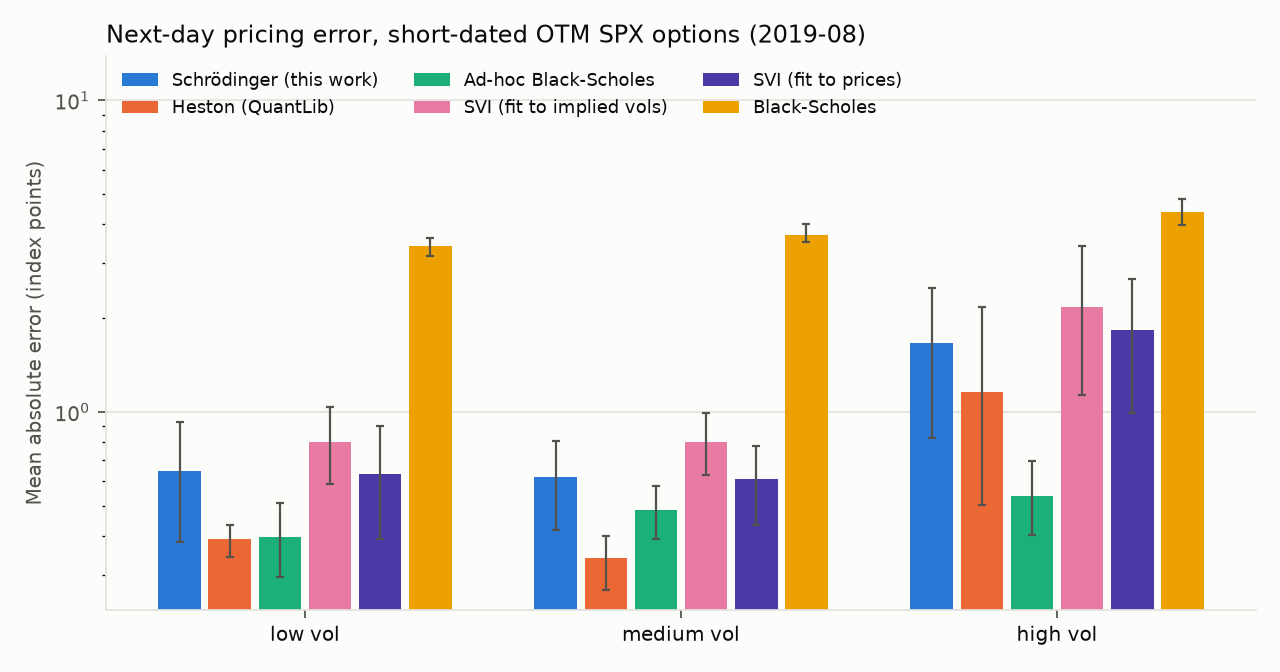
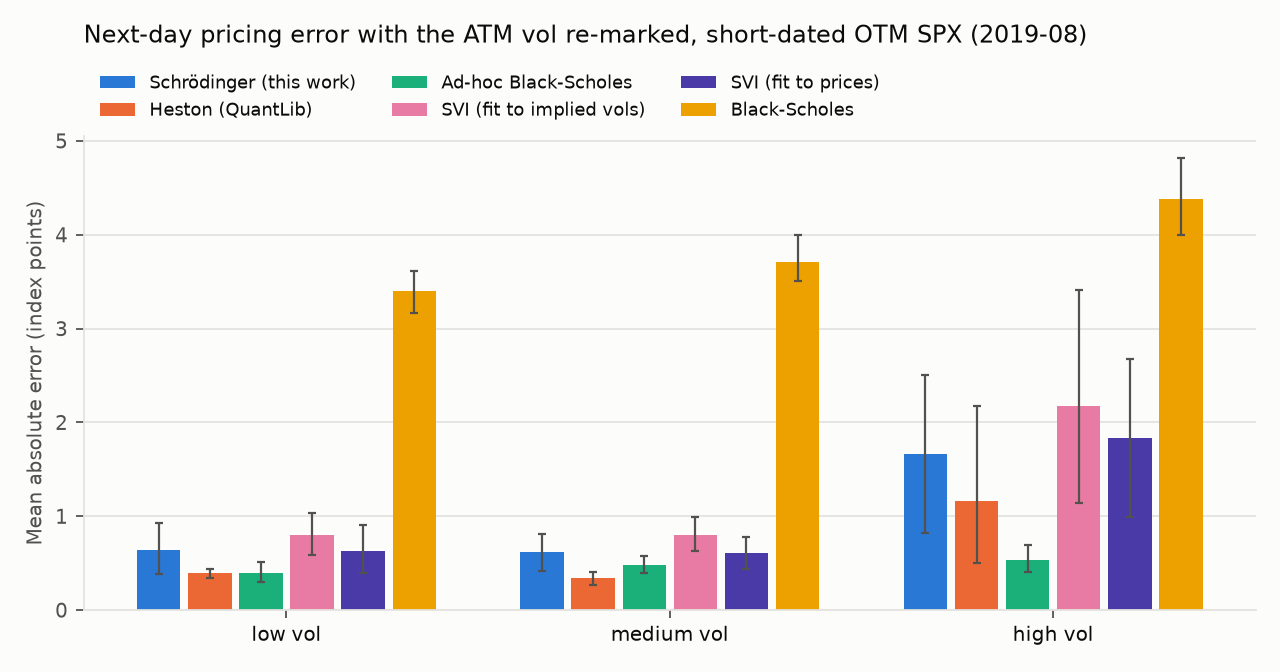
Stop presenting grid-box modes as bound states of the well
The potential-well figure drew the lowest eigenstates computed on the
pricing grid (+-8 sd). For short-dated SPX wells those are modes of the
Dirichlet box, not of the well. Their energies fall 4x each time the box
doubles and were identical on two different days. With rho near -1 the
call side of the well is almost flat. The level spacing is about 0.2 per
year and T (E1 - E0) is about 0.005 at 8 days, so the eigen-expansion
would need hundreds of states.

- The figure now shows each well with the density the solver actually
  propagates to expiry.
- qp_price --states computes the spectrum on a domain 8x wider, checks it
  against one 16x wider, flags levels that haven't converged and prints
  T (E1 - E0) with a verdict on whether the expansion is usable.
- docs/theory.md quantifies how discrete the spectrum is in practice and
  records that the solver's zero-clip never fires: without it, 400
  calibrated holdout wells gave no negative node at either grid size.
- The MAE-by-regime chart moves to a linear axis with the legend above.

diff --git a/python/qpricing/report.py b/python/qpricing/report.py
@@ -210,12 +210,12 @@ def fig_mae_by_regime(summary: pd.DataFrame, path: Path, period: str = "2022H2")
                yerr=err, error_kw={"ecolor": INK_2, "elinewidth": 1, "capsize": 2})
     ax.set_xticks(x, [f"{r} vol" for r in REGIMES], color=INK)
     ax.set_ylabel("Mean absolute error (index points)", color=INK_2, fontsize=9)
-    ax.set_yscale("log")
-    ax.set_title("Next-day pricing error, short-dated OTM SPX options "
+    ax.set_title("Next-day pricing error with the ATM vol re-marked, short-dated OTM SPX "
                  + ("(holdout Sep-Dec 2022)" if period == "2022H2" else f"({period})"),
+                 pad=42,
                  color=INK, fontsize=11, loc="left")
-    ax.legend(frameon=False, fontsize=8, labelcolor=INK, ncols=3, loc="upper left")
-    ax.set_ylim(top=ax.get_ylim()[1] * 2.5)
+    ax.legend(frameon=False, fontsize=8, labelcolor=INK, ncols=3, loc="lower left",
+              bbox_to_anchor=(0.0, 1.0))
     fig.tight_layout()
     fig.savefig(path, dpi=160)
     plt.close(fig)
@@ -242,47 +242,53 @@ def fig_regimes(regimes: pd.DataFrame, path: Path, period: str = "2022H2") -> No
 
 
 def fig_potential_wells(params: pd.DataFrame, regimes: pd.DataFrame, path: Path) -> None:
-    """The calibrated quantum potential and its lowest bound states, one slice per regime."""
+    """The calibrated quantum potential and the particle's density at expiry, one per regime.
+
+    No eigenstates: on a short horizon the call-side wall is so shallow that the spectrum is
+    packed far tighter than 1/T, and the lowest states on the pricing grid would be modes of the
+    grid's box rather than of the well (see docs/theory.md, section 4).
+    """
     finite = params["params"].map(lambda v: bool(np.all(np.isfinite(v))))
     p = params[(params.model == "schrodinger") & finite]
     p = p.join(regimes["regime"], on="calib_date")
-    fig, axes = plt.subplots(1, 3, figsize=(10, 3.6), facecolor=SURFACE, sharey=False)
-    for ax, regime in zip(axes, REGIMES, strict=True):
-        _style(ax)
-        ax.grid(False)
+    fig, axes = plt.subplots(2, 3, figsize=(10, 4.8), facecolor=SURFACE, sharex="col",
+                             gridspec_kw={"height_ratios": [3, 2]})
+    for col, regime in enumerate(REGIMES):
+        top_ax, bot_ax = axes[0, col], axes[1, col]
+        for ax in (top_ax, bot_ax):
+            _style(ax)
+            ax.grid(False)
         cand = p[(p.regime == regime) & p.days.between(8, 10)]
         # the slice whose ATM vol level is the median of its regime: a typical well
         lvl = cand["params"].map(lambda v: v[0])
         row = cand.iloc[int(np.argsort(lvl.to_numpy())[len(lvl) // 2])]
         T = row.days / 365
         sol = _qpcore.solve(Schrodinger.to_params(np.array(row["params"])), T,
-                            _qpcore.GridSpec(1200, 200), 4)
-        y, V = np.asarray(sol["y"]), np.asarray(sol["potential"])
-        E = np.asarray(sol["energies"])
-        # Plot where the particle actually lives: +-4 sd of the unit-diffusion Y-process.
-        centre = y[np.argmax(np.abs(np.asarray(sol["states"][0])))]
-        window = np.abs(y - centre) < 4.0 * np.sqrt(T)
-        top = 2.2 * E[2]
-        bottom = -0.6 * top
-        ax.plot(y[window], np.clip(V[window], bottom, None), color=INK, linewidth=1.6)
-        scale = 0.35 * (E[1] - E[0])
-        for n in range(3):
-            phi = np.asarray(sol["states"][n])
-            ax.axhline(E[n], color=GRID, linewidth=0.8)
-            ax.plot(y[window], E[n] + scale * phi[window] / np.abs(phi[window]).max(),
-                    color=COLORS["schrodinger"], linewidth=1.4, alpha=1.0 - 0.25 * n)
-            ax.text(y[window][-1], E[n], f" E{n}", color=INK_2, fontsize=8, va="center")
-        ax.set_ylim(bottom, top)
+                            _qpcore.GridSpec(1200, 200), 0)
+        y, V, q = (np.asarray(sol[k]) for k in ("y", "potential", "q"))
+        # where the particle actually lives at expiry
+        window = q > 1e-3 * q.max()
+        floor = np.median(V[window])
+        top = floor + 60.0
+        bottom = floor - 60.0
+        top_ax.plot(y[window], np.clip(V[window], bottom, top), color=INK, linewidth=1.6)
+        top_ax.set_ylim(bottom, top)
         i_min = int(np.argmin(np.where(window, V, np.inf)))
         if V[i_min] < bottom:
-            ax.annotate(f"attractive spike\n(depth {V[i_min]:.0f})", xy=(y[i_min], bottom),
-                        xytext=(y[i_min] + 0.15 * (y[window][-1] - y[window][0]), 0.55 * bottom),
-                        color=INK_2, fontsize=7,
-                        arrowprops={"arrowstyle": "->", "color": INK_2, "linewidth": 0.8})
-        ax.set_title(f"{regime} vol: {row.calib_date.date()}, {row.days}d", color=INK, fontsize=9)
-        ax.set_xlabel("y (Lamperti coordinate)", color=INK_2, fontsize=8)
-    axes[0].set_ylabel("V(y) and bound states", color=INK_2, fontsize=9)
-    fig.suptitle("Calibrated potential wells V(y) = (b² + b')/2 with their lowest eigenstates",
+            top_ax.annotate(f"attractive spike\n(depth {V[i_min]:.0f})", xy=(y[i_min], bottom),
+                            xytext=(y[i_min] + 0.2 * np.ptp(y[window]), bottom + 15),
+                            color=INK_2, fontsize=7,
+                            arrowprops={"arrowstyle": "->", "color": INK_2, "linewidth": 0.8})
+        bot_ax.fill_between(y[window], q[window], color=COLORS["schrodinger"], alpha=0.35,
+                            linewidth=0)
+        bot_ax.plot(y[window], q[window], color=COLORS["schrodinger"], linewidth=1.4)
+        bot_ax.set_yticks([])
+        top_ax.set_title(f"{regime} vol: {row.calib_date.date()}, {row.days}d", color=INK,
+                         fontsize=9)
+        bot_ax.set_xlabel("y (Lamperti coordinate)", color=INK_2, fontsize=8)
+    axes[0, 0].set_ylabel("potential V(y)", color=INK_2, fontsize=9)
+    axes[1, 0].set_ylabel("density at expiry", color=INK_2, fontsize=9)
+    fig.suptitle("Calibrated potential wells V(y) = (b² + b')/2 and where the particle ends up",
                  color=INK, fontsize=11, x=0.01, ha="left")
     fig.tight_layout()
     fig.savefig(path, dpi=160)

diff --git a/cpp/apps/qp_price.cpp b/cpp/apps/qp_price.cpp
@@ -4,6 +4,7 @@
 //            --a 0.012 --b 0.45 --rho -0.8 --m 0.02 --s 0.05 \
 //            --strikes 3000,3300,3500,3577,3700,3850 [--states 5]
 
+#include <algorithm>
 #include <cmath>
 #include <cstdio>
 #include <cstdlib>
@@ -83,10 +84,30 @@ int main(int argc, char** argv) {
         }
 
         if (states > 0) {
-            const auto spec = qp::lowest_states(problem, states);
-            std::printf("\nlowest bound states of H = -1/2 d^2/dy^2 + V(y):\n");
+            // The pricing grid spans +-8 sd of the horizon. On it the lowest eigenstates of a
+            // short-dated well are modes of the Dirichlet box, not of the well, so the spectrum
+            // is computed on a domain 8x wider (same spacing) and checked against one 16x wider.
+            auto wide_spectrum = [&](double factor) {
+                qp::GridSpec g = grid;
+                g.width_sd *= factor;
+                g.n_space = static_cast<int>(grid.n_space * factor);
+                return qp::lowest_states(qp::SchrodingerProblem(p, T, g), states);
+            };
+            const auto spec = wide_spectrum(8.0);
+            const auto check = wide_spectrum(16.0);
+            std::printf("\nlowest bound states of H = -1/2 d^2/dy^2 + V(y), on +-%.0f sd:\n",
+                        8.0 * grid.width_sd);
             for (std::size_t k = 0; k < spec.energies.size(); ++k) {
-                std::printf("  E_%zu = %.6f\n", k, spec.energies[k]);
+                const double drift = std::abs(check.energies[k] - spec.energies[k]) /
+                                     std::max(std::abs(check.energies[k]), 1e-12);
+                std::printf("  E_%zu = %.6f%s\n", k, spec.energies[k],
+                            drift > 0.01 ? "   (not converged: still moves with the domain)" : "");
+            }
+            if (spec.energies.size() > 1) {
+                const double gap_t = (spec.energies[1] - spec.energies[0]) * T;
+                std::printf("T (E_1 - E_0) = %.4g: the eigen-expansion %s at this maturity\n", gap_t,
+                            gap_t > 1.0 ? "converges in a few states"
+                                        : "needs many states; the PDE is what prices");
             }
         }
     } catch (const std::exception& e) {

diff --git a/docs/theory.md b/docs/theory.md
@@ -96,6 +96,17 @@ where $b_y < 0$. `cpp/src/spectral.cpp` computes the bound states with Sturm-seq
 inverse iteration. The tests check the harmonic-oscillator levels $E_n = \omega(n+\tfrac12)$ and that
 the expansion reproduces the PDE prices.
 
+**How discrete in practice.** Each wing is its own half-oscillator. With $c_\pm^2 = b(1 \pm \rho)$
+the right and left frequencies are $\omega_\pm = c_\pm^2/4$. Calibrated short-dated SPX smiles sit at
+$\rho \approx -1$, so the put side is a steep wall while the call side is almost flat: on 18 Aug 2022
+(8 days) $b = 39$ and $\rho = -0.988$ give $\omega_- \approx 20$ but $\omega_+ \approx 0.1$ per year.
+The level spacing is set by the soft side: $E_1 - E_0 \approx 0.22$, so $T(E_1 - E_0) \approx 0.005$ at 8 days. The
+expansion would need hundreds of states and the lowest eigenstates computed on the pricing grid
+(±8 sd) are modes of the grid's box, not of the well: their energies fall by 4x each time the box
+doubles. The spectrum only settles on a domain of ±64 to ±128 sd, and for the flattest wells not
+even then. So the PDE does the pricing. The spectral code is exact for confining wells and the
+CLI's `--states` computes the spectrum on a wide domain and says whether the expansion is usable.
+
 ## 5. Numerics
 
 * **Grid.** Uniform in $y$, centred on the drift $b(0)T$, half-width $8\sqrt{T}$ (the $Y$-process
@@ -125,7 +136,9 @@ The model is a diffusion with strictly positive local variance $\sigma^2(x) \ge 
 * **Butterflies.** The density solves a Fokker-Planck equation with a positive diffusion
   coefficient, so it stays non-negative (maximum principle). In the solver $q = e^{B}\psi$ and the
   pricer integrates payoffs against a non-negative discrete density, so the discrete call price is
-  convex in $K$ as well. An implied-vol parameterisation (quadratic, SVI) has no such guarantee:
+  convex in $K$ as well. The solver clips $q$ at zero as a safety net; with the clip removed, 400
+  random calibrated holdout wells produced no negative node at either grid size, so the clip
+  never acts. An implied-vol parameterisation (quadratic, SVI) has no such guarantee:
   Durrleman's condition
   $g(k) = (1 - \tfrac{k w'}{2w})^2 - \tfrac{w'^2}{4}(\tfrac1w + \tfrac14) + \tfrac{w''}{2} \ge 0$
   has to be checked or imposed.
